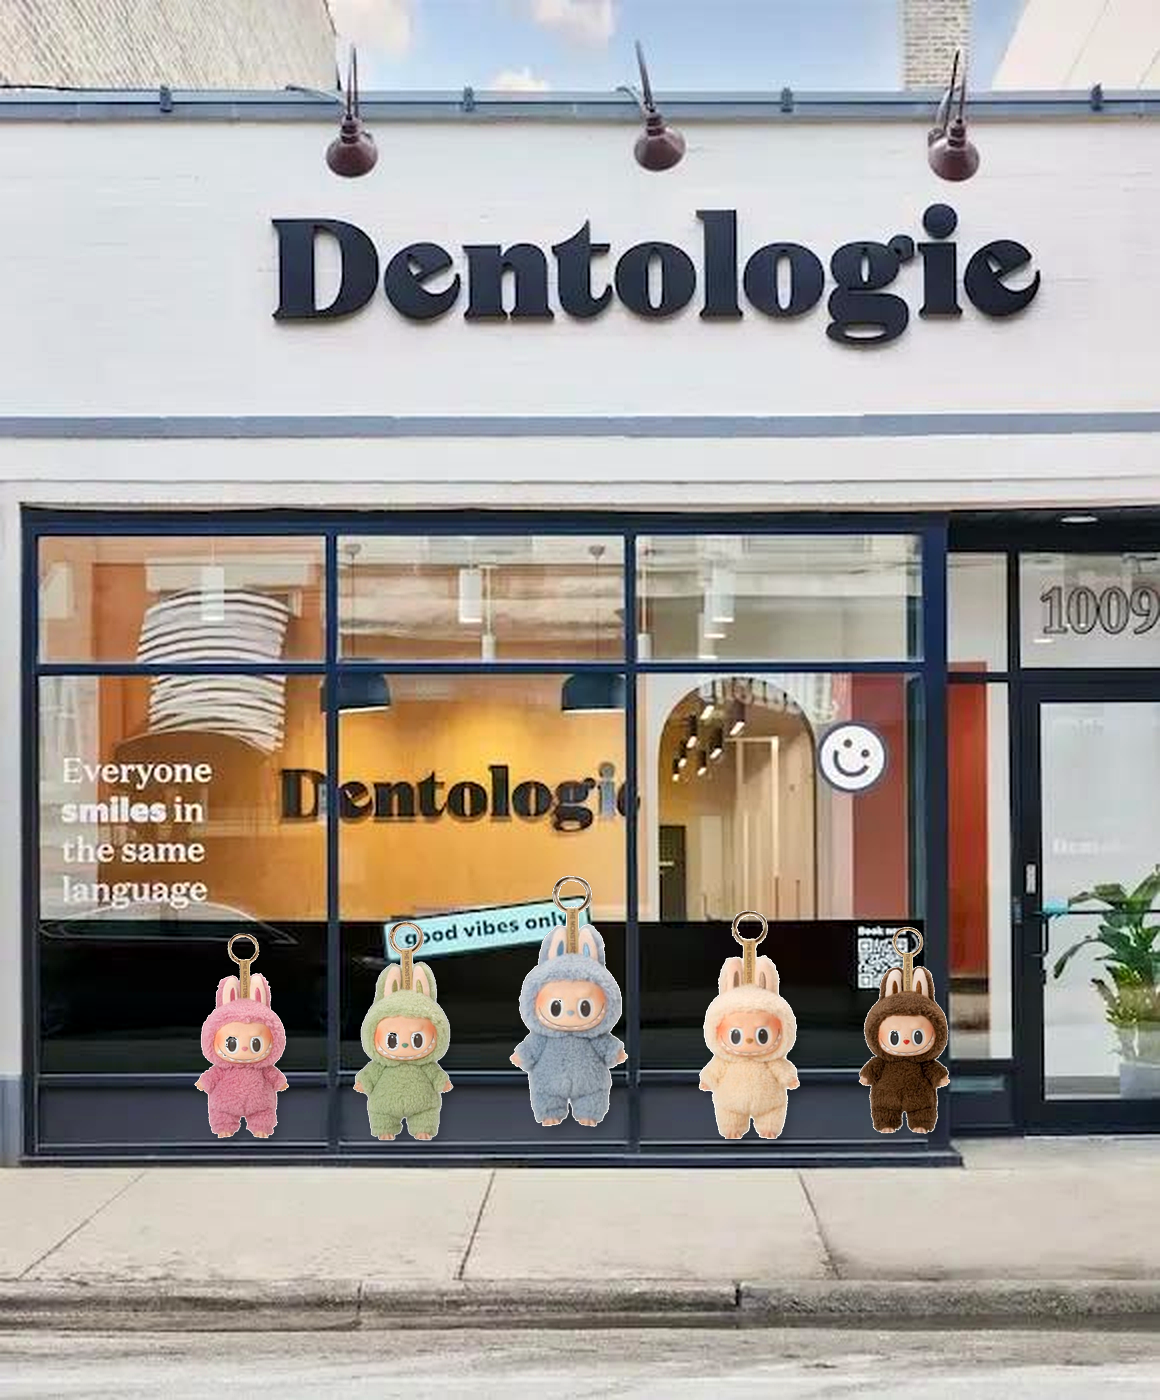
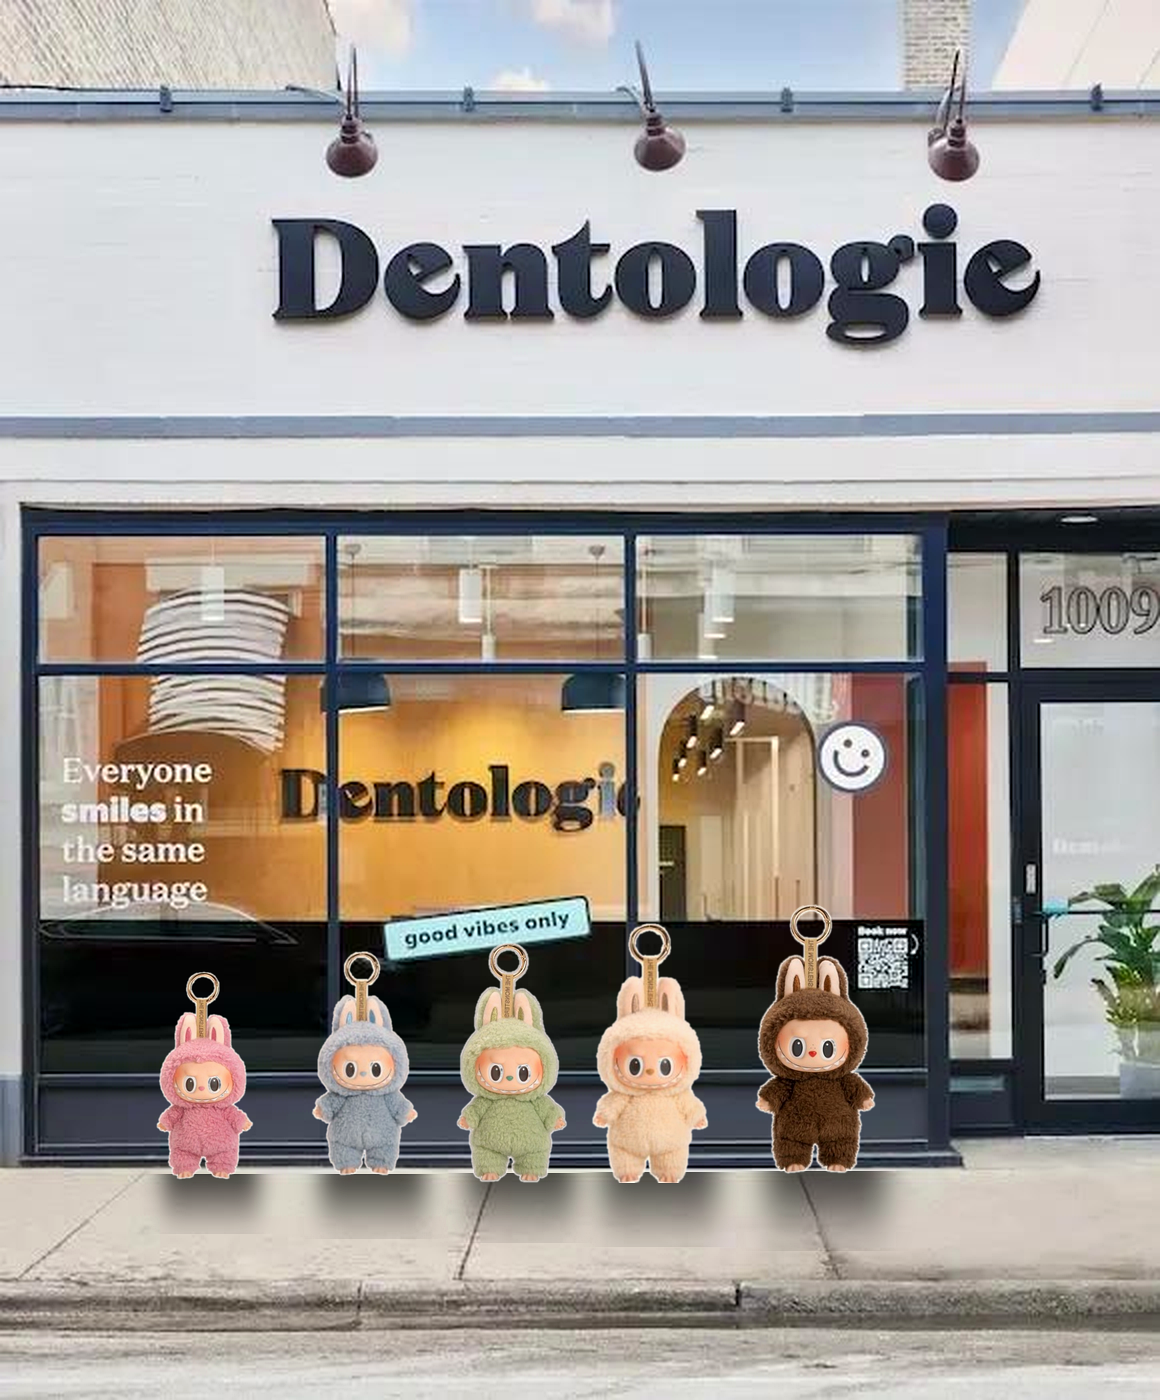
Update Labubu queue: flip to face right, improve shadows and realism
https://claude.ai/code/session_019ALzHzBiodxJUkpGcK3VNq

Changed region(s): [[0.1241, 0.6143, 0.8379, 0.8907]]

diff --git a/make_composite.py b/make_composite.py
@@ -1,55 +1,78 @@
-from PIL import Image, ImageEnhance, ImageFilter, ImageDraw
+from PIL import Image, ImageEnhance, ImageFilter, ImageDraw, ImageOps, ImageChops
 import numpy as np
 
-def remove_white_bg(img, threshold=240):
+def remove_white_bg(img, threshold=238):
     img = img.convert("RGBA")
-    data = np.array(img)
-    r, g, b, a = data[:,:,0], data[:,:,1], data[:,:,2], data[:,:,3]
-    white_mask = (r > threshold) & (g > threshold) & (b > threshold)
-    data[:,:,3] = np.where(white_mask, 0, 255)
-    # Soften edges
-    result = Image.fromarray(data, 'RGBA')
-    return result
+    data = np.array(img, dtype=np.float32)
+    r, g, b = data[:,:,0], data[:,:,1], data[:,:,2]
+    # White mask - pixels close to white
+    whiteness = (r + g + b) / 3
+    is_white = (r > threshold) & (g > threshold) & (b > threshold)
+    # Also catch near-grey background
+    saturation = np.max(data[:,:,:3], axis=2) - np.min(data[:,:,:3], axis=2)
+    low_sat_bright = (whiteness > 225) & (saturation < 18)
+    mask = is_white | low_sat_bright
+    result = data.copy()
+    result[:,:,3] = np.where(mask, 0, 255)
+    # Feather edges
+    alpha_img = Image.fromarray(result[:,:,3].astype(np.uint8), 'L')
+    alpha_img = alpha_img.filter(ImageFilter.MaxFilter(3))
+    alpha_img = alpha_img.filter(ImageFilter.GaussianBlur(1.2))
+    result[:,:,3] = np.array(alpha_img)
+    return Image.fromarray(result.astype(np.uint8), 'RGBA')
 
-def add_drop_shadow(char, blur=12, offset=(10, 16), opacity=0.55):
-    shadow = Image.new("RGBA", (char.width + abs(offset[0])*3, char.height + abs(offset[1])*3), (0,0,0,0))
-    alpha = char.split()[3]
-    shadow_body = Image.new("RGBA", char.size, (0,0,0,0))
-    shadow_data = np.zeros((char.height, char.width, 4), dtype=np.uint8)
-    alpha_arr = np.array(alpha)
-    shadow_data[:,:,3] = (alpha_arr * opacity).astype(np.uint8)
-    shadow_body = Image.fromarray(shadow_data, 'RGBA')
-    shadow_body = shadow_body.filter(ImageFilter.GaussianBlur(blur))
-    result = Image.new("RGBA", shadow.size, (0,0,0,0))
-    result.paste(shadow_body, (abs(offset[0]) + offset[0], abs(offset[1]) + offset[1]), shadow_body)
-    result.paste(char, (abs(offset[0]), abs(offset[1])), char)
-    return result
+def make_ground_shadow(char, clinic_brightness=0.65, blur=18, squish=0.22):
+    """Realistic elliptical ground shadow."""
+    alpha = np.array(char.split()[3])
+    # Collapse to bottom strip to simulate ground contact
+    shadow_h = max(1, int(char.height * squish))
+    shadow_w = int(char.width * 1.1)
+    # Project alpha to bottom
+    col_alpha = alpha.max(axis=0)
+    col_alpha = np.clip(col_alpha.astype(float) * 0.7, 0, 200)
+    # Build shadow strip
+    shadow = np.zeros((shadow_h, shadow_w, 4), dtype=np.uint8)
+    for y in range(shadow_h):
+        fade = 1.0 - y / shadow_h
+        row_alpha = (col_alpha * fade).astype(np.uint8)
+        x_offset = (shadow_w - len(row_alpha)) // 2
+        end = min(x_offset + len(row_alpha), shadow_w)
+        actual_len = end - x_offset
+        shadow[y, x_offset:end, 3] = row_alpha[:actual_len]
+    shadow_img = Image.fromarray(shadow, 'RGBA')
+    shadow_img = shadow_img.filter(ImageFilter.GaussianBlur(blur))
+    return shadow_img
 
-# Load images
+def color_grade(char, warmth=0.06, brightness=0.97):
+    """Tint character to match warm clinic lighting."""
+    arr = np.array(char.convert("RGBA"), dtype=np.float32)
+    arr[:,:,0] = np.clip(arr[:,:,0] * (1 + warmth), 0, 255)   # warm R
+    arr[:,:,1] = np.clip(arr[:,:,1] * (1 + warmth * 0.4), 0, 255)
+    arr[:,:,:3] = np.clip(arr[:,:,:3] * brightness, 0, 255)
+    return Image.fromarray(arr.astype(np.uint8), 'RGBA')
+
+# ── Load images ──────────────────────────────────────────────────────────────
 clinic = Image.open("dental_clinic.png").convert("RGBA")
 labubu_grid = Image.open("labubu.jpg").convert("RGBA")
 
 cw, ch = clinic.size
 lw, lh = labubu_grid.size
 
-# Upscale clinic for better quality output
-scale = 2
-clinic = clinic.resize((cw * scale, ch * scale), Image.LANCZOS)
+# Upscale clinic 2× for crisp output
+clinic = clinic.resize((cw * 2, ch * 2), Image.LANCZOS)
 cw, ch = clinic.size
 
-# Crop Labubu characters from the 3x3 grid
-# Grid: 3 cols x 3 rows
+# ── Crop characters from 3×3 grid ────────────────────────────────────────────
 cell_w = lw // 3
 cell_h = lh // 3
 
-# Pick 5 characters: row0col0 (pink), row0col1 (green), row1col0 (blue),
-# row1col2 (cream), row0col2 (brown)
+# Picks: (row, col) → colors
 picks = [
-    (0, 0),  # pink - most front
+    (0, 2),  # brown   — furthest back (closest to door)
+    (1, 2),  # cream
     (0, 1),  # green
     (1, 0),  # blue/grey
-    (1, 2),  # cream
-    (0, 2),  # brown - furthest back
+    (0, 0),  # pink    — front of queue (furthest from door)
 ]
 
 chars = []
@@ -57,62 +80,53 @@ for row, col in picks:
     x1 = col * cell_w
     y1 = row * cell_h
     crop = labubu_grid.crop((x1, y1, x1 + cell_w, y1 + cell_h))
-    # Remove white background
-    crop = remove_white_bg(crop, threshold=235)
+    crop = remove_white_bg(crop)
+    # ── FLIP to face RIGHT (toward entrance) ──────────────────────────────
+    crop = ImageOps.mirror(crop)
+    crop = color_grade(crop)
     chars.append(crop)
 
-# Place characters in a queue in front of the clinic
-# Sidewalk starts around 78% down the clinic height
-sidewalk_baseline = int(ch * 0.82)
+# ── Layout: linear queue along sidewalk, right = closer to door ─────────────
+# Sidewalk baseline (bottom of feet)
+baseline_y = int(ch * 0.845)
 
-# Characters heights relative to clinic (with scale)
-base_char_h = int(ch * 0.24)
+# Each successive character in queue is slightly further back = smaller + higher
+base_h = int(ch * 0.26)      # front character height
+depth_step = 0.06            # each character is 6% smaller as they go back
 
-# Queue positions: spread along the lower portion, slight arc to simulate depth
-# Characters in the middle are slightly in front
-num = len(chars)
-# x positions: spread across 20% to 80% of clinic width
-xs = [int(cw * (0.20 + i * 0.145)) for i in range(num)]
-# Depth effect: middle chars slightly lower and larger
-depths = [0.82, 0.88, 1.0, 0.90, 0.84]
+# X positions: queue stretches left from the door (right side ~75%) toward left
+door_x = int(cw * 0.70)
+char_spacing = int(cw * 0.13)
 
 result = clinic.copy()
 
-# Draw in reverse order (back to front)
-for i in reversed(range(num)):
+# Render front-to-back so back chars go UNDER front chars
+for i in range(len(chars)):
     char = chars[i]
-    depth = depths[i]
-    h = int(base_char_h * depth)
-    ratio = h / char.height
-    w = int(char.width * ratio)
+    depth = 1.0 - i * depth_step   # front=1.0, back gets smaller
+
+    h = int(base_h * depth)
+    w = int(char.width * (h / char.height))
     char_scaled = char.resize((w, h), Image.LANCZOS)
 
-    # Add shadow
-    char_with_shadow = add_drop_shadow(char_scaled, blur=int(8 * depth), offset=(int(6*depth), int(10*depth)))
+    # Ground shadow
+    shadow = make_ground_shadow(char_scaled, blur=int(14 * depth))
+    sx = door_x - i * char_spacing - shadow.width // 2 + int(w * 0.05)
+    sy = baseline_y - int(shadow.height * 0.15)
+    if sx >= 0 and sy >= 0 and sx + shadow.width <= cw and sy + shadow.height <= ch:
+        result.alpha_composite(shadow, dest=(sx, sy))
 
-    # Bottom of character on sidewalk baseline
-    shadow_offset_y = int(8 * depth)
-    shadow_offset_x = int(6 * depth)
-    x = xs[i] - char_with_shadow.width // 2 + shadow_offset_x
-    y = sidewalk_baseline - char_with_shadow.height + shadow_offset_y + int((1-depth) * 30)
+    # Character — feet sit on baseline
+    x = door_x - i * char_spacing - w // 2
+    y = baseline_y - h
+    if x >= 0 and x + w <= cw:
+        result.alpha_composite(char_scaled, dest=(x, y))
 
-    result.alpha_composite(char_with_shadow, dest=(max(0, x), max(0, y)))
-
-# Add slight vignette
-vignette = Image.new("RGBA", result.size, (0,0,0,0))
-draw = ImageDraw.Draw(vignette)
-for r in range(80, 0, -1):
-    alpha = int((80 - r) * 1.2)
-    draw.ellipse([
-        -cw//4 + r*cw//160, -ch//4 + r*ch//160,
-        cw + cw//4 - r*cw//160, ch + ch//4 - r*ch//160
-    ], outline=(0,0,0,0))
-
-# Final enhancement
+# ── Final color grade ─────────────────────────────────────────────────────────
 final = result.convert("RGB")
-final = ImageEnhance.Color(final).enhance(1.08)
-final = ImageEnhance.Contrast(final).enhance(1.05)
-final = ImageEnhance.Sharpness(final).enhance(1.15)
+final = ImageEnhance.Color(final).enhance(1.06)
+final = ImageEnhance.Contrast(final).enhance(1.04)
+final = ImageEnhance.Sharpness(final).enhance(1.2)
 
-final.save("dental_labubu_queue.png", "PNG", optimize=False)
-print(f"Done! dental_labubu_queue.png — {final.size[0]}x{final.size[1]}px")
+final.save("dental_labubu_queue.png", "PNG")
+print(f"Done! {final.size[0]}x{final.size[1]}px")
